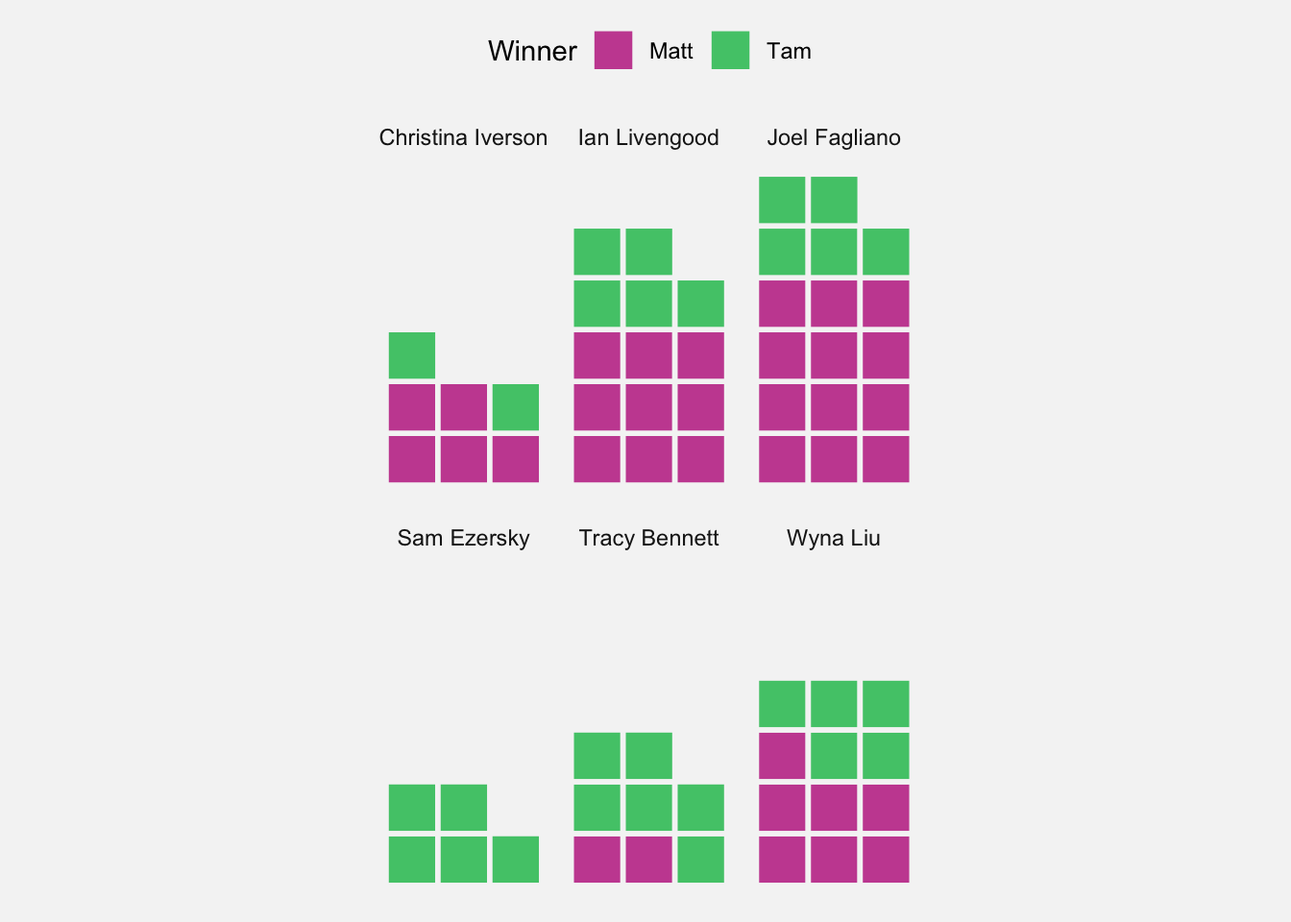
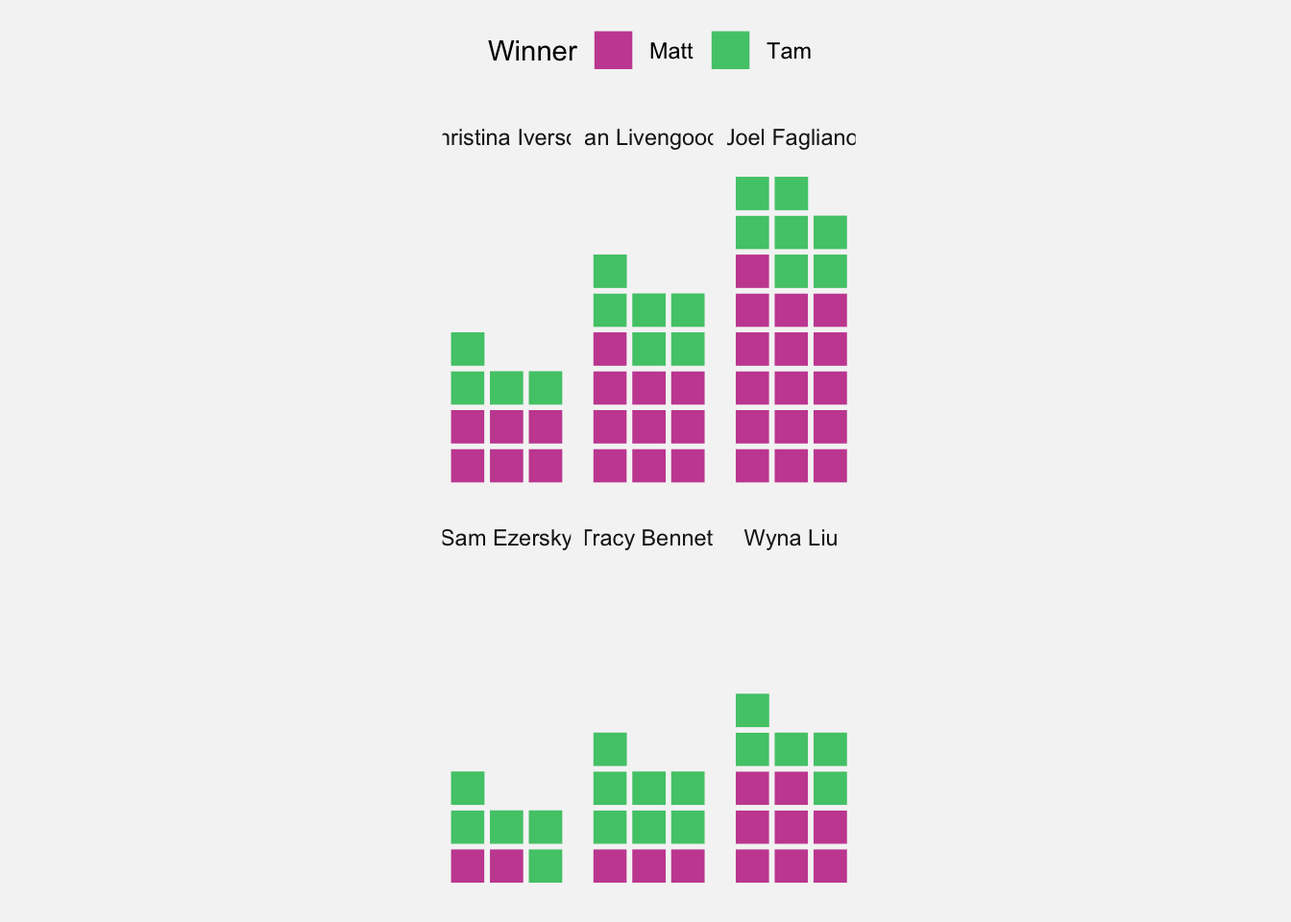
Fix logic if multiple fastest days

diff --git a/mini.html b/mini.html
@@ -75,7 +75,7 @@ ul.task-list li input[type="checkbox"] {
 <p>S</p>
 </div>
 </div>
-<p>After 64 Minis, <strong><span class="matt">Matt</span></strong> is leading 35 to 28 (with 1 draw).</p>
+<p>After 80 Minis, <strong><span class="matt">Matt</span></strong> is leading 45 to 34 (with 1 draw).</p>
 <div class="cell">
 <div class="cell-output-display">
 <div>
@@ -105,13 +105,13 @@ ul.task-list li input[type="checkbox"] {
 </div>
 </div>
 <p><span class="matt">Matt</span> holds the record for the fastest Mini, completing it in <strong>0:18</strong> on 4 February 2025.</p>
-<p><span class="matt">Matt</span> also played the slowest game: a sluggish <strong>5:46</strong> on 1 February 2025.</p>
+<p><span class="matt">Matt</span> also played the slowest game: a sluggish <strong>8:17</strong> on 3 May 2025.</p>
 <p>Other than the draw, we’ve played 2 Minis that were a mere 1 second apart.</p>
 <p>This chart compares our completion times for each Mini. Click/hover on the points to see the details of each game.</p>
 <div class="cell">
 <div class="cell-output-display">
-<div class="plotly html-widget html-fill-item" id="htmlwidget-9e8647fc40e1eb6f14e6" style="width:100%;height:464px;"></div>
-<script type="application/json" data-for="htmlwidget-9e8647fc40e1eb6f14e6">{"x":{"data":[{"x":[20199,20199,null,20200,20200,null,20201,20201,null,20202,20202,null,20203,20203,null,20206,20206,null,20080,20080,null,20081,20081,null,20083,20083,null,20085,20085,null,20086,20086,null,20089,20089,null,20090,20090,null,20091,20091,null,20092,20092,null,20093,20093,null,20095,20095,null,20098,20098,null,20099,20099,null,20100,20100,null,20101,20101,null,20105,20105,null,20108,20108,null,20109,20109,null,20110,20110,null,20112,20112,null,20113,20113,null,20114,20114,null,20115,20115,null,20116,20116,null,20118,20118,null,20119,20119,null,20120,20120,null,20122,20122,null,20123,20123,null,20124,20124,null,20125,20125,null,20126,20126,null,20128,20128,null,20130,20130,null,20131,20131,null,20135,20135,null,20137,20137,null,20138,20138,null,20139,20139,null,20141,20141,null,20142,20142,null,20143,20143,null,20144,20144,null,20145,20145,null,20146,20146,null,20147,20147,null,20149,20149,null,20150,20150,null,20159,20159,null,20163,20163,null,20164,20164,null,20180,20180,null,20185,20185,null,20187,20187,null,20189,20189,null,20193,20193,null,20194,20194,null,20195,20195],"y":[70,41,null,103,53,null,30,40,null,76,91,null,75,97,null,73,74,null,142,72,null,48,39,null,80,234,null,229,137,null,65,162,null,154,34,null,56,32,null,99,72,null,117,93,null,49,49,null,92,155,null,86,57,null,104,124,null,61,141,null,51,146,null,51,45,null,106,86,null,71,46,null,50,52,null,59,182,null,242,144,null,82,71,null,129,60,null,120,135,null,121,162,null,31,74,null,346,257,null,49,81,null,18,27,null,194,77,null,46,114,null,45,64,null,40,62,null,57,50,null,45,74,null,92,82,null,163,70,null,57,66,null,160,46,null,124,340,null,44,81,null,45,80,null,45,82,null,115,182,null,97,118,null,54,57,null,61,163,null,66,65,null,63,155,null,62,68,null,75,129,null,66,69,null,87,72,null,103,53,null,110,91,null,45,104,null,229,164,null,109,86],"text":"","type":"scatter","mode":"lines","line":{"width":1.8897637795275593,"color":"rgba(0,0,0,1)","dash":"solid"},"hoveron":"points","showlegend":false,"xaxis":"x","yaxis":"y","hoverinfo":"text","frame":null},{"x":[20199,20200,20201,20202,20203,20206,20080,20081,20083,20085,20086,20089,20090,20091,20092,20093,20095,20098,20099,20100,20101,20105,20108,20109,20110,20112,20113,20114,20115,20116,20118,20119,20120,20122,20123,20124,20125,20126,20128,20130,20131,20135,20137,20138,20139,20141,20142,20143,20144,20145,20146,20147,20149,20150,20159,20163,20164,20180,20185,20187,20189,20193,20194,20195],"y":[70,103,30,76,75,73,142,48,80,229,65,154,56,99,117,49,92,86,104,61,51,51,106,71,50,59,242,82,129,120,121,31,346,49,18,194,46,45,40,57,45,92,163,57,160,124,44,45,45,115,97,54,61,66,63,62,75,66,87,103,110,45,229,109],"text":["Matt completed the Mini in 1:10 on 21 April 2025","Matt completed the Mini in 1:43 on 22 April 2025","Matt completed the Mini in 0:30 on 23 April 2025","Matt completed the Mini in 1:16 on 24 April 2025","Matt completed the Mini in 1:15 on 25 April 2025","Matt completed the Mini in 1:13 on 28 April 2025","Matt completed the Mini in 2:22 on 23 December 2024","Matt completed the Mini in 0:48 on 24 December 2024","Matt completed the Mini in 1:20 on 26 December 2024","Matt completed the Mini in 3:49 on 28 December 2024","Matt completed the Mini in 1:05 on 29 December 2024","Matt completed the Mini in 2:34 on 1 January 2025","Matt completed the Mini in 0:56 on 2 January 2025","Matt completed the Mini in 1:39 on 3 January 2025","Matt completed the Mini in 1:57 on 4 January 2025","Matt completed the Mini in 0:49 on 5 January 2025","Matt completed the Mini in 1:32 on 7 January 2025","Matt completed the Mini in 1:26 on 10 January 2025","Matt completed the Mini in 1:44 on 11 January 2025","Matt completed the Mini in 1:01 on 12 January 2025","Matt completed the Mini in 0:51 on 13 January 2025","Matt completed the Mini in 0:51 on 17 January 2025","Matt completed the Mini in 1:46 on 20 January 2025","Matt completed the Mini in 1:11 on 21 January 2025","Matt completed the Mini in 0:50 on 22 January 2025","Matt completed the Mini in 0:59 on 24 January 2025","Matt completed the Mini in 4:02 on 25 January 2025","Matt completed the Mini in 1:22 on 26 January 2025","Matt completed the Mini in 2:09 on 27 January 2025","Matt completed the Mini in 2:00 on 28 January 2025","Matt completed the Mini in 2:01 on 30 January 2025","Matt completed the Mini in 0:31 on 31 January 2025","Matt completed the Mini in 5:46 on 1 February 2025","Matt completed the Mini in 0:49 on 3 February 2025","Matt completed the Mini in 0:18 on 4 February 2025","Matt completed the Mini in 3:14 on 5 February 2025","Matt completed the Mini in 0:46 on 6 February 2025","Matt completed the Mini in 0:45 on 7 February 2025","Matt completed the Mini in 0:40 on 9 February 2025","Matt completed the Mini in 0:57 on 11 February 2025","Matt completed the Mini in 0:45 on 12 February 2025","Matt completed the Mini in 1:32 on 16 February 2025","Matt completed the Mini in 2:43 on 18 February 2025","Matt completed the Mini in 0:57 on 19 February 2025","Matt completed the Mini in 2:40 on 20 February 2025","Matt completed the Mini in 2:04 on 22 February 2025","Matt completed the Mini in 0:44 on 23 February 2025","Matt completed the Mini in 0:45 on 24 February 2025","Matt completed the Mini in 0:45 on 25 February 2025","Matt completed the Mini in 1:55 on 26 February 2025","Matt completed the Mini in 1:37 on 27 February 2025","Matt completed the Mini in 0:54 on 28 February 2025","Matt completed the Mini in 1:01 on 2 March 2025","Matt completed the Mini in 1:06 on 3 March 2025","Matt completed the Mini in 1:03 on 12 March 2025","Matt completed the Mini in 1:02 on 16 March 2025","Matt completed the Mini in 1:15 on 17 March 2025","Matt completed the Mini in 1:06 on 2 April 2025","Matt completed the Mini in 1:27 on 7 April 2025","Matt completed the Mini in 1:43 on 9 April 2025","Matt completed the Mini in 1:50 on 11 April 2025","Matt completed the Mini in 0:45 on 15 April 2025","Matt completed the Mini in 3:49 on 16 April 2025","Matt completed the Mini in 1:49 on 17 April 2025"],"type":"scatter","mode":"markers","marker":{"autocolorscale":false,"color":"rgba(200,80,160,1)","opacity":1,"size":7.559055118110237,"symbol":"circle","line":{"width":1.8897637795275593,"color":"rgba(200,80,160,1)"}},"hoveron":"points","showlegend":false,"xaxis":"x","yaxis":"y","hoverinfo":"text","frame":null},{"x":[20199,20200,20201,20202,20203,20206,20080,20081,20083,20085,20086,20089,20090,20091,20092,20093,20095,20098,20099,20100,20101,20105,20108,20109,20110,20112,20113,20114,20115,20116,20118,20119,20120,20122,20123,20124,20125,20126,20128,20130,20131,20135,20137,20138,20139,20141,20142,20143,20144,20145,20146,20147,20149,20150,20159,20163,20164,20180,20185,20187,20189,20193,20194,20195],"y":[41,53,40,91,97,74,72,39,234,137,162,34,32,72,93,49,155,57,124,141,146,45,86,46,52,182,144,71,60,135,162,74,257,81,27,77,114,64,62,50,74,82,70,66,46,340,81,80,82,182,118,57,163,65,155,68,129,69,72,53,91,104,164,86],"text":["Tam completed the Mini in 0:41 on 21 April 2025","Tam completed the Mini in 0:53 on 22 April 2025","Tam completed the Mini in 0:40 on 23 April 2025","Tam completed the Mini in 1:31 on 24 April 2025","Tam completed the Mini in 1:37 on 25 April 2025","Tam completed the Mini in 1:14 on 28 April 2025","Tam completed the Mini in 1:12 on 23 December 2024","Tam completed the Mini in 0:39 on 24 December 2024","Tam completed the Mini in 3:54 on 26 December 2024","Tam completed the Mini in 2:17 on 28 December 2024","Tam completed the Mini in 2:42 on 29 December 2024","Tam completed the Mini in 0:34 on 1 January 2025","Tam completed the Mini in 0:32 on 2 January 2025","Tam completed the Mini in 1:12 on 3 January 2025","Tam completed the Mini in 1:33 on 4 January 2025","Tam completed the Mini in 0:49 on 5 January 2025","Tam completed the Mini in 2:35 on 7 January 2025","Tam completed the Mini in 0:57 on 10 January 2025","Tam completed the Mini in 2:04 on 11 January 2025","Tam completed the Mini in 2:21 on 12 January 2025","Tam completed the Mini in 2:26 on 13 January 2025","Tam completed the Mini in 0:45 on 17 January 2025","Tam completed the Mini in 1:26 on 20 January 2025","Tam completed the Mini in 0:46 on 21 January 2025","Tam completed the Mini in 0:52 on 22 January 2025","Tam completed the Mini in 3:02 on 24 January 2025","Tam completed the Mini in 2:24 on 25 January 2025","Tam completed the Mini in 1:11 on 26 January 2025","Tam completed the Mini in 1:00 on 27 January 2025","Tam completed the Mini in 2:15 on 28 January 2025","Tam completed the Mini in 2:42 on 30 January 2025","Tam completed the Mini in 1:14 on 31 January 2025","Tam completed the Mini in 4:17 on 1 February 2025","Tam completed the Mini in 1:21 on 3 February 2025","Tam completed the Mini in 0:27 on 4 February 2025","Tam completed the Mini in 1:17 on 5 February 2025","Tam completed the Mini in 1:54 on 6 February 2025","Tam completed the Mini in 1:04 on 7 February 2025","Tam completed the Mini in 1:02 on 9 February 2025","Tam completed the Mini in 0:50 on 11 February 2025","Tam completed the Mini in 1:14 on 12 February 2025","Tam completed the Mini in 1:22 on 16 February 2025","Tam completed the Mini in 1:10 on 18 February 2025","Tam completed the Mini in 1:06 on 19 February 2025","Tam completed the Mini in 0:46 on 20 February 2025","Tam completed the Mini in 5:40 on 22 February 2025","Tam completed the Mini in 1:21 on 23 February 2025","Tam completed the Mini in 1:20 on 24 February 2025","Tam completed the Mini in 1:22 on 25 February 2025","Tam completed the Mini in 3:02 on 26 February 2025","Tam completed the Mini in 1:58 on 27 February 2025","Tam completed the Mini in 0:57 on 28 February 2025","Tam completed the Mini in 2:43 on 2 March 2025","Tam completed the Mini in 1:05 on 3 March 2025","Tam completed the Mini in 2:35 on 12 March 2025","Tam completed the Mini in 1:08 on 16 March 2025","Tam completed the Mini in 2:09 on 17 March 2025","Tam completed the Mini in 1:09 on 2 April 2025","Tam completed the Mini in 1:12 on 7 April 2025","Tam completed the Mini in 0:53 on 9 April 2025","Tam completed the Mini in 1:31 on 11 April 2025","Tam completed the Mini in 1:44 on 15 April 2025","Tam completed the Mini in 2:44 on 16 April 2025","Tam completed the Mini in 1:26 on 17 April 2025"],"type":"scatter","mode":"markers","marker":{"autocolorscale":false,"color":"rgba(80,200,120,1)","opacity":1,"size":7.559055118110237,"symbol":"circle","line":{"width":1.8897637795275593,"color":"rgba(80,200,120,1)"}},"hoveron":"points","showlegend":false,"xaxis":"x","yaxis":"y","hoverinfo":"text","frame":null}],"layout":{"margin":{"t":26.228310502283108,"r":7.3059360730593621,"b":25.57077625570777,"l":43.105022831050235},"plot_bgcolor":"rgba(245,245,245,1)","paper_bgcolor":"rgba(245,245,245,1)","font":{"color":"rgba(0,0,0,1)","family":"","size":14.611872146118724},"xaxis":{"domain":[0,1],"automargin":true,"type":"linear","autorange":false,"range":[20073.700000000001,20212.299999999999],"tickmode":"array","ticktext":["Jan","Feb","Mar","Apr","May"],"tickvals":[20089,20120,20148,20179,20209],"categoryorder":"array","categoryarray":["Jan","Feb","Mar","Apr","May"],"nticks":null,"ticks":"","tickcolor":null,"ticklen":3.6529680365296811,"tickwidth":0,"showticklabels":true,"tickfont":{"color":"rgba(77,77,77,1)","family":"","size":11.68949771689498},"tickangle":-0,"showline":false,"linecolor":null,"linewidth":0,"showgrid":true,"gridcolor":"rgba(235,235,235,1)","gridwidth":0.66417600664176002,"zeroline":false,"anchor":"y","title":{"text":"","font":{"color":"rgba(0,0,0,1)","family":"","size":14.611872146118724}},"hoverformat":".2f"},"yaxis":{"domain":[0,1],"automargin":true,"type":"linear","autorange":false,"range":[1.5999999999999979,362.39999999999998],"tickmode":"array","ticktext":["100","200","300"],"tickvals":[100,199.99999999999997,300],"categoryorder":"array","categoryarray":["100","200","300"],"nticks":null,"ticks":"","tickcolor":null,"ticklen":3.6529680365296811,"tickwidth":0,"showticklabels":true,"tickfont":{"color":"rgba(77,77,77,1)","family":"","size":11.68949771689498},"tickangle":-0,"showline":false,"linecolor":null,"linewidth":0,"showgrid":true,"gridcolor":"rgba(235,235,235,1)","gridwidth":0.66417600664176002,"zeroline":false,"anchor":"x","title":{"text":"Time to finish Mini (seconds)","font":{"color":"rgba(0,0,0,1)","family":"","size":14.611872146118724}},"hoverformat":".2f"},"shapes":[{"type":"rect","fillcolor":null,"line":{"color":null,"width":0,"linetype":[]},"yref":"paper","xref":"paper","x0":0,"x1":1,"y0":0,"y1":1}],"showlegend":false,"legend":{"bgcolor":null,"bordercolor":null,"borderwidth":0,"font":{"color":"rgba(0,0,0,1)","family":"","size":11.68949771689498}},"hovermode":"x","barmode":"relative"},"config":{"doubleClick":"reset","modeBarButtonsToAdd":["hoverclosest","hovercompare"],"showSendToCloud":false,"displayModeBar":true,"displaylogo":false,"modeBarButtonsToRemove":["pan","select","autoScale","lasso2d","hoverClosestCartesian","hoverCompareCartesian"]},"source":"A","attrs":{"b4115b2a7c5f":{"x":{},"y":{},"xend":{},"yend":{},"type":"scatter"},"b411424b6fbb":{"x":{},"y":{},"xend":{},"yend":{},"text":{}},"b41166947ffd":{"x":{},"y":{},"xend":{},"yend":{},"text":{}}},"cur_data":"b4115b2a7c5f","visdat":{"b4115b2a7c5f":["function (y) ","x"],"b411424b6fbb":["function (y) ","x"],"b41166947ffd":["function (y) ","x"]},"highlight":{"on":"plotly_click","persistent":false,"dynamic":false,"selectize":false,"opacityDim":0.20000000000000001,"selected":{"opacity":1},"debounce":0},"shinyEvents":["plotly_hover","plotly_click","plotly_selected","plotly_relayout","plotly_brushed","plotly_brushing","plotly_clickannotation","plotly_doubleclick","plotly_deselect","plotly_afterplot","plotly_sunburstclick"],"base_url":"https://plot.ly"},"evals":[],"jsHooks":[]}</script>
+<div class="plotly html-widget html-fill-item" id="htmlwidget-cab71f37664e5102c7c2" style="width:100%;height:464px;"></div>
+<script type="application/json" data-for="htmlwidget-cab71f37664e5102c7c2">{"x":{"data":[{"x":[20199,20199,null,20200,20200,null,20201,20201,null,20202,20202,null,20203,20203,null,20206,20206,null,20207,20207,null,20208,20208,null,20210,20210,null,20211,20211,null,20213,20213,null,20214,20214,null,20216,20216,null,20217,20217,null,20218,20218,null,20219,20219,null,20220,20220,null,20221,20221,null,20222,20222,null,20223,20223,null,20226,20226,null,20227,20227,null,20080,20080,null,20081,20081,null,20083,20083,null,20085,20085,null,20086,20086,null,20089,20089,null,20090,20090,null,20091,20091,null,20092,20092,null,20093,20093,null,20095,20095,null,20098,20098,null,20099,20099,null,20100,20100,null,20101,20101,null,20105,20105,null,20108,20108,null,20109,20109,null,20110,20110,null,20112,20112,null,20113,20113,null,20114,20114,null,20115,20115,null,20116,20116,null,20118,20118,null,20119,20119,null,20120,20120,null,20122,20122,null,20123,20123,null,20124,20124,null,20125,20125,null,20126,20126,null,20128,20128,null,20130,20130,null,20131,20131,null,20135,20135,null,20137,20137,null,20138,20138,null,20139,20139,null,20141,20141,null,20142,20142,null,20143,20143,null,20144,20144,null,20145,20145,null,20146,20146,null,20147,20147,null,20149,20149,null,20150,20150,null,20159,20159,null,20163,20163,null,20164,20164,null,20180,20180,null,20185,20185,null,20187,20187,null,20189,20189,null,20193,20193,null,20194,20194,null,20195,20195],"y":[70,41,null,103,53,null,30,40,null,76,91,null,75,97,null,73,74,null,69,101,null,134,64,null,44,60,null,497,186,null,122,75,null,141,67,null,83,112,null,44,74,null,99,153,null,63,66,null,65,83,null,31,42,null,53,59,null,85,78,null,73,150,null,117,102,null,142,72,null,48,39,null,80,234,null,229,137,null,65,162,null,154,34,null,56,32,null,99,72,null,117,93,null,49,49,null,92,155,null,86,57,null,104,124,null,61,141,null,51,146,null,51,45,null,106,86,null,71,46,null,50,52,null,59,182,null,242,144,null,82,71,null,129,60,null,120,135,null,121,162,null,31,74,null,346,257,null,49,81,null,18,27,null,194,77,null,46,114,null,45,64,null,40,62,null,57,50,null,45,74,null,92,82,null,163,70,null,57,66,null,160,46,null,124,340,null,44,81,null,45,80,null,45,82,null,115,182,null,97,118,null,54,57,null,61,163,null,66,65,null,63,155,null,62,68,null,75,129,null,66,69,null,87,72,null,103,53,null,110,91,null,45,104,null,229,164,null,109,86],"text":"","type":"scatter","mode":"lines","line":{"width":1.8897637795275593,"color":"rgba(0,0,0,1)","dash":"solid"},"hoveron":"points","showlegend":false,"xaxis":"x","yaxis":"y","hoverinfo":"text","frame":null},{"x":[20199,20200,20201,20202,20203,20206,20207,20208,20210,20211,20213,20214,20216,20217,20218,20219,20220,20221,20222,20223,20226,20227,20080,20081,20083,20085,20086,20089,20090,20091,20092,20093,20095,20098,20099,20100,20101,20105,20108,20109,20110,20112,20113,20114,20115,20116,20118,20119,20120,20122,20123,20124,20125,20126,20128,20130,20131,20135,20137,20138,20139,20141,20142,20143,20144,20145,20146,20147,20149,20150,20159,20163,20164,20180,20185,20187,20189,20193,20194,20195],"y":[70,103,30,76,75,73,69,134,44,497,122,141,83,44,99,63,65,31,53,85,73,117,142,48,80,229,65,154,56,99,117,49,92,86,104,61,51,51,106,71,50,59,242,82,129,120,121,31,346,49,18,194,46,45,40,57,45,92,163,57,160,124,44,45,45,115,97,54,61,66,63,62,75,66,87,103,110,45,229,109],"text":["Matt completed the Mini in 1:10 on 21 April 2025","Matt completed the Mini in 1:43 on 22 April 2025","Matt completed the Mini in 0:30 on 23 April 2025","Matt completed the Mini in 1:16 on 24 April 2025","Matt completed the Mini in 1:15 on 25 April 2025","Matt completed the Mini in 1:13 on 28 April 2025","Matt completed the Mini in 1:09 on 29 April 2025","Matt completed the Mini in 2:14 on 30 April 2025","Matt completed the Mini in 0:44 on 2 May 2025","Matt completed the Mini in 8:17 on 3 May 2025","Matt completed the Mini in 2:02 on 5 May 2025","Matt completed the Mini in 2:21 on 6 May 2025","Matt completed the Mini in 1:23 on 8 May 2025","Matt completed the Mini in 0:44 on 9 May 2025","Matt completed the Mini in 1:39 on 10 May 2025","Matt completed the Mini in 1:03 on 11 May 2025","Matt completed the Mini in 1:05 on 12 May 2025","Matt completed the Mini in 0:31 on 13 May 2025","Matt completed the Mini in 0:53 on 14 May 2025","Matt completed the Mini in 1:25 on 15 May 2025","Matt completed the Mini in 1:13 on 18 May 2025","Matt completed the Mini in 1:57 on 19 May 2025","Matt completed the Mini in 2:22 on 23 December 2024","Matt completed the Mini in 0:48 on 24 December 2024","Matt completed the Mini in 1:20 on 26 December 2024","Matt completed the Mini in 3:49 on 28 December 2024","Matt completed the Mini in 1:05 on 29 December 2024","Matt completed the Mini in 2:34 on 1 January 2025","Matt completed the Mini in 0:56 on 2 January 2025","Matt completed the Mini in 1:39 on 3 January 2025","Matt completed the Mini in 1:57 on 4 January 2025","Matt completed the Mini in 0:49 on 5 January 2025","Matt completed the Mini in 1:32 on 7 January 2025","Matt completed the Mini in 1:26 on 10 January 2025","Matt completed the Mini in 1:44 on 11 January 2025","Matt completed the Mini in 1:01 on 12 January 2025","Matt completed the Mini in 0:51 on 13 January 2025","Matt completed the Mini in 0:51 on 17 January 2025","Matt completed the Mini in 1:46 on 20 January 2025","Matt completed the Mini in 1:11 on 21 January 2025","Matt completed the Mini in 0:50 on 22 January 2025","Matt completed the Mini in 0:59 on 24 January 2025","Matt completed the Mini in 4:02 on 25 January 2025","Matt completed the Mini in 1:22 on 26 January 2025","Matt completed the Mini in 2:09 on 27 January 2025","Matt completed the Mini in 2:00 on 28 January 2025","Matt completed the Mini in 2:01 on 30 January 2025","Matt completed the Mini in 0:31 on 31 January 2025","Matt completed the Mini in 5:46 on 1 February 2025","Matt completed the Mini in 0:49 on 3 February 2025","Matt completed the Mini in 0:18 on 4 February 2025","Matt completed the Mini in 3:14 on 5 February 2025","Matt completed the Mini in 0:46 on 6 February 2025","Matt completed the Mini in 0:45 on 7 February 2025","Matt completed the Mini in 0:40 on 9 February 2025","Matt completed the Mini in 0:57 on 11 February 2025","Matt completed the Mini in 0:45 on 12 February 2025","Matt completed the Mini in 1:32 on 16 February 2025","Matt completed the Mini in 2:43 on 18 February 2025","Matt completed the Mini in 0:57 on 19 February 2025","Matt completed the Mini in 2:40 on 20 February 2025","Matt completed the Mini in 2:04 on 22 February 2025","Matt completed the Mini in 0:44 on 23 February 2025","Matt completed the Mini in 0:45 on 24 February 2025","Matt completed the Mini in 0:45 on 25 February 2025","Matt completed the Mini in 1:55 on 26 February 2025","Matt completed the Mini in 1:37 on 27 February 2025","Matt completed the Mini in 0:54 on 28 February 2025","Matt completed the Mini in 1:01 on 2 March 2025","Matt completed the Mini in 1:06 on 3 March 2025","Matt completed the Mini in 1:03 on 12 March 2025","Matt completed the Mini in 1:02 on 16 March 2025","Matt completed the Mini in 1:15 on 17 March 2025","Matt completed the Mini in 1:06 on 2 April 2025","Matt completed the Mini in 1:27 on 7 April 2025","Matt completed the Mini in 1:43 on 9 April 2025","Matt completed the Mini in 1:50 on 11 April 2025","Matt completed the Mini in 0:45 on 15 April 2025","Matt completed the Mini in 3:49 on 16 April 2025","Matt completed the Mini in 1:49 on 17 April 2025"],"type":"scatter","mode":"markers","marker":{"autocolorscale":false,"color":"rgba(200,80,160,1)","opacity":1,"size":7.559055118110237,"symbol":"circle","line":{"width":1.8897637795275593,"color":"rgba(200,80,160,1)"}},"hoveron":"points","showlegend":false,"xaxis":"x","yaxis":"y","hoverinfo":"text","frame":null},{"x":[20199,20200,20201,20202,20203,20206,20207,20208,20210,20211,20213,20214,20216,20217,20218,20219,20220,20221,20222,20223,20226,20227,20080,20081,20083,20085,20086,20089,20090,20091,20092,20093,20095,20098,20099,20100,20101,20105,20108,20109,20110,20112,20113,20114,20115,20116,20118,20119,20120,20122,20123,20124,20125,20126,20128,20130,20131,20135,20137,20138,20139,20141,20142,20143,20144,20145,20146,20147,20149,20150,20159,20163,20164,20180,20185,20187,20189,20193,20194,20195],"y":[41,53,40,91,97,74,101,64,60,186,75,67,112,74,153,66,83,42,59,78,150,102,72,39,234,137,162,34,32,72,93,49,155,57,124,141,146,45,86,46,52,182,144,71,60,135,162,74,257,81,27,77,114,64,62,50,74,82,70,66,46,340,81,80,82,182,118,57,163,65,155,68,129,69,72,53,91,104,164,86],"text":["Tam completed the Mini in 0:41 on 21 April 2025","Tam completed the Mini in 0:53 on 22 April 2025","Tam completed the Mini in 0:40 on 23 April 2025","Tam completed the Mini in 1:31 on 24 April 2025","Tam completed the Mini in 1:37 on 25 April 2025","Tam completed the Mini in 1:14 on 28 April 2025","Tam completed the Mini in 1:41 on 29 April 2025","Tam completed the Mini in 1:04 on 30 April 2025","Tam completed the Mini in 1:00 on 2 May 2025","Tam completed the Mini in 3:06 on 3 May 2025","Tam completed the Mini in 1:15 on 5 May 2025","Tam completed the Mini in 1:07 on 6 May 2025","Tam completed the Mini in 1:52 on 8 May 2025","Tam completed the Mini in 1:14 on 9 May 2025","Tam completed the Mini in 2:33 on 10 May 2025","Tam completed the Mini in 1:06 on 11 May 2025","Tam completed the Mini in 1:23 on 12 May 2025","Tam completed the Mini in 0:42 on 13 May 2025","Tam completed the Mini in 0:59 on 14 May 2025","Tam completed the Mini in 1:18 on 15 May 2025","Tam completed the Mini in 2:30 on 18 May 2025","Tam completed the Mini in 1:42 on 19 May 2025","Tam completed the Mini in 1:12 on 23 December 2024","Tam completed the Mini in 0:39 on 24 December 2024","Tam completed the Mini in 3:54 on 26 December 2024","Tam completed the Mini in 2:17 on 28 December 2024","Tam completed the Mini in 2:42 on 29 December 2024","Tam completed the Mini in 0:34 on 1 January 2025","Tam completed the Mini in 0:32 on 2 January 2025","Tam completed the Mini in 1:12 on 3 January 2025","Tam completed the Mini in 1:33 on 4 January 2025","Tam completed the Mini in 0:49 on 5 January 2025","Tam completed the Mini in 2:35 on 7 January 2025","Tam completed the Mini in 0:57 on 10 January 2025","Tam completed the Mini in 2:04 on 11 January 2025","Tam completed the Mini in 2:21 on 12 January 2025","Tam completed the Mini in 2:26 on 13 January 2025","Tam completed the Mini in 0:45 on 17 January 2025","Tam completed the Mini in 1:26 on 20 January 2025","Tam completed the Mini in 0:46 on 21 January 2025","Tam completed the Mini in 0:52 on 22 January 2025","Tam completed the Mini in 3:02 on 24 January 2025","Tam completed the Mini in 2:24 on 25 January 2025","Tam completed the Mini in 1:11 on 26 January 2025","Tam completed the Mini in 1:00 on 27 January 2025","Tam completed the Mini in 2:15 on 28 January 2025","Tam completed the Mini in 2:42 on 30 January 2025","Tam completed the Mini in 1:14 on 31 January 2025","Tam completed the Mini in 4:17 on 1 February 2025","Tam completed the Mini in 1:21 on 3 February 2025","Tam completed the Mini in 0:27 on 4 February 2025","Tam completed the Mini in 1:17 on 5 February 2025","Tam completed the Mini in 1:54 on 6 February 2025","Tam completed the Mini in 1:04 on 7 February 2025","Tam completed the Mini in 1:02 on 9 February 2025","Tam completed the Mini in 0:50 on 11 February 2025","Tam completed the Mini in 1:14 on 12 February 2025","Tam completed the Mini in 1:22 on 16 February 2025","Tam completed the Mini in 1:10 on 18 February 2025","Tam completed the Mini in 1:06 on 19 February 2025","Tam completed the Mini in 0:46 on 20 February 2025","Tam completed the Mini in 5:40 on 22 February 2025","Tam completed the Mini in 1:21 on 23 February 2025","Tam completed the Mini in 1:20 on 24 February 2025","Tam completed the Mini in 1:22 on 25 February 2025","Tam completed the Mini in 3:02 on 26 February 2025","Tam completed the Mini in 1:58 on 27 February 2025","Tam completed the Mini in 0:57 on 28 February 2025","Tam completed the Mini in 2:43 on 2 March 2025","Tam completed the Mini in 1:05 on 3 March 2025","Tam completed the Mini in 2:35 on 12 March 2025","Tam completed the Mini in 1:08 on 16 March 2025","Tam completed the Mini in 2:09 on 17 March 2025","Tam completed the Mini in 1:09 on 2 April 2025","Tam completed the Mini in 1:12 on 7 April 2025","Tam completed the Mini in 0:53 on 9 April 2025","Tam completed the Mini in 1:31 on 11 April 2025","Tam completed the Mini in 1:44 on 15 April 2025","Tam completed the Mini in 2:44 on 16 April 2025","Tam completed the Mini in 1:26 on 17 April 2025"],"type":"scatter","mode":"markers","marker":{"autocolorscale":false,"color":"rgba(80,200,120,1)","opacity":1,"size":7.559055118110237,"symbol":"circle","line":{"width":1.8897637795275593,"color":"rgba(80,200,120,1)"}},"hoveron":"points","showlegend":false,"xaxis":"x","yaxis":"y","hoverinfo":"text","frame":null}],"layout":{"margin":{"t":26.228310502283108,"r":7.3059360730593621,"b":25.57077625570777,"l":43.105022831050235},"plot_bgcolor":"rgba(245,245,245,1)","paper_bgcolor":"rgba(245,245,245,1)","font":{"color":"rgba(0,0,0,1)","family":"","size":14.611872146118724},"xaxis":{"domain":[0,1],"automargin":true,"type":"linear","autorange":false,"range":[20072.650000000001,20234.349999999999],"tickmode":"array","ticktext":["Jan","Feb","Mar","Apr","May"],"tickvals":[20089,20120,20148,20179,20209],"categoryorder":"array","categoryarray":["Jan","Feb","Mar","Apr","May"],"nticks":null,"ticks":"","tickcolor":null,"ticklen":3.6529680365296811,"tickwidth":0,"showticklabels":true,"tickfont":{"color":"rgba(77,77,77,1)","family":"","size":11.68949771689498},"tickangle":-0,"showline":false,"linecolor":null,"linewidth":0,"showgrid":true,"gridcolor":"rgba(235,235,235,1)","gridwidth":0.66417600664176002,"zeroline":false,"anchor":"y","title":{"text":"","font":{"color":"rgba(0,0,0,1)","family":"","size":14.611872146118724}},"hoverformat":".2f"},"yaxis":{"domain":[0,1],"automargin":true,"type":"linear","autorange":false,"range":[-5.9500000000000028,520.95000000000005],"tickmode":"array","ticktext":["0","100","200","300","400","500"],"tickvals":[0,100,199.99999999999994,300,400,500],"categoryorder":"array","categoryarray":["0","100","200","300","400","500"],"nticks":null,"ticks":"","tickcolor":null,"ticklen":3.6529680365296811,"tickwidth":0,"showticklabels":true,"tickfont":{"color":"rgba(77,77,77,1)","family":"","size":11.68949771689498},"tickangle":-0,"showline":false,"linecolor":null,"linewidth":0,"showgrid":true,"gridcolor":"rgba(235,235,235,1)","gridwidth":0.66417600664176002,"zeroline":false,"anchor":"x","title":{"text":"Time to finish Mini (seconds)","font":{"color":"rgba(0,0,0,1)","family":"","size":14.611872146118724}},"hoverformat":".2f"},"shapes":[{"type":"rect","fillcolor":null,"line":{"color":null,"width":0,"linetype":[]},"yref":"paper","xref":"paper","x0":0,"x1":1,"y0":0,"y1":1}],"showlegend":false,"legend":{"bgcolor":null,"bordercolor":null,"borderwidth":0,"font":{"color":"rgba(0,0,0,1)","family":"","size":11.68949771689498}},"hovermode":"x","barmode":"relative"},"config":{"doubleClick":"reset","modeBarButtonsToAdd":["hoverclosest","hovercompare"],"showSendToCloud":false,"displayModeBar":true,"displaylogo":false,"modeBarButtonsToRemove":["pan","select","autoScale","lasso2d","hoverClosestCartesian","hoverCompareCartesian"]},"source":"A","attrs":{"3f4433f58a58":{"x":{},"y":{},"xend":{},"yend":{},"type":"scatter"},"3f443d4db20e":{"x":{},"y":{},"xend":{},"yend":{},"text":{}},"3f4437e4d493":{"x":{},"y":{},"xend":{},"yend":{},"text":{}}},"cur_data":"3f4433f58a58","visdat":{"3f4433f58a58":["function (y) ","x"],"3f443d4db20e":["function (y) ","x"],"3f4437e4d493":["function (y) ","x"]},"highlight":{"on":"plotly_click","persistent":false,"dynamic":false,"selectize":false,"opacityDim":0.20000000000000001,"selected":{"opacity":1},"debounce":0},"shinyEvents":["plotly_hover","plotly_click","plotly_selected","plotly_relayout","plotly_brushed","plotly_brushing","plotly_clickannotation","plotly_doubleclick","plotly_deselect","plotly_afterplot","plotly_sunburstclick"],"base_url":"https://plot.ly"},"evals":[],"jsHooks":[]}</script>
 </div>
 </div>
 <div class="crossword-container">
@@ -130,7 +130,7 @@ ul.task-list li input[type="checkbox"] {
 </div>
 </div>
 </div>
-<p><span class="tam">Tam’s</span> fastest Mini completion times tend to be on Tuesdays, while <span class="matt">Matt</span> is faster on Sundays, on average.</p>
+<p><span class="tam">Tam’s</span> fastest Mini completion times tend to be on Tuesdays, while <span class="matt">Matt</span> is faster on Friday and Sunday, on average.</p>
 <p>The chart below shows the variation in our completion times on each day of the week:</p>
 <div class="cell">
 <div class="cell-output-display">
@@ -141,7 +141,7 @@ ul.task-list li input[type="checkbox"] {
 </div>
 </div>
 </div>
-<p>Both of us are least consistent on Saturdays, with completion times as quick as 1:33 and as slow as 5:46.</p>
+<p>Both of us are least consistent on Saturdays, with completion times as quick as 1:33 and as slow as 8:17.</p>
 <div class="crossword-container">
 <div class="crossword-grid">
 <div class="letter-cell">
@@ -167,8 +167,8 @@ ul.task-list li input[type="checkbox"] {
 </div>
 </div>
 </div>
-<p><span class="tam">Tam</span> does best when <strong>Sam Ezersky</strong> sets the Mini, winning 5 of 5 games.</p>
-<p><span class="matt">Matt’s</span> favourite Mini setter is <strong>Christina Iverson</strong>, with 5 wins out of 7 games.</p>
+<p><span class="tam">Tam</span> does best when <strong>Sam Ezersky</strong> sets the Mini, winning 5 of 7 games.</p>
+<p><span class="matt">Matt’s</span> favourite Mini setter is <strong>Joel Fagliano</strong>, with 16 wins out of 23 games.</p>
 <p>Each square in this chart represents one Mini, coloured by the winner, for each crossword setter:</p>
 <div class="cell">
 <div class="cell-output-display">
@@ -179,9 +179,9 @@ ul.task-list li input[type="checkbox"] {
 </div>
 </div>
 </div>
-<p><span class="matt">Matt</span> tends to be fastest when <strong>Joel Fagliano</strong> sets the Mini, with an average completion time of <strong>1:14</strong>. But he’s slowest when <strong>Ian Livengood</strong> is the setter, completing these Minis in <strong>1:50</strong> on average.</p>
-<p><span class="tam">Tam</span> is speediest when <strong>Sam Ezersky</strong> sets the Mini, gunning it in <strong>1:09</strong>, on average. She’s slowest when they’re set by <strong>Christina Iverson</strong>, with an average completion time of <strong>2:18</strong>.</p>
-<p><em>Last updated on 28 April 2025.</em></p>
+<p><span class="matt">Matt</span> tends to be fastest when <strong>Joel Fagliano</strong> sets the Mini, with an average completion time of <strong>1:16</strong>. But he’s slowest when <strong>Tracy Bennett</strong> is the setter, completing these Minis in <strong>2:14</strong> on average.</p>
+<p><span class="tam">Tam</span> is speediest when <strong>Sam Ezersky</strong> sets the Mini, gunning it in <strong>1:20</strong>, on average. She’s slowest when they’re set by <strong>Christina Iverson</strong>, with an average completion time of <strong>2:02</strong>.</p>
+<p><em>Last updated on 19 May 2025.</em></p>
 </section>
 
 </main>
